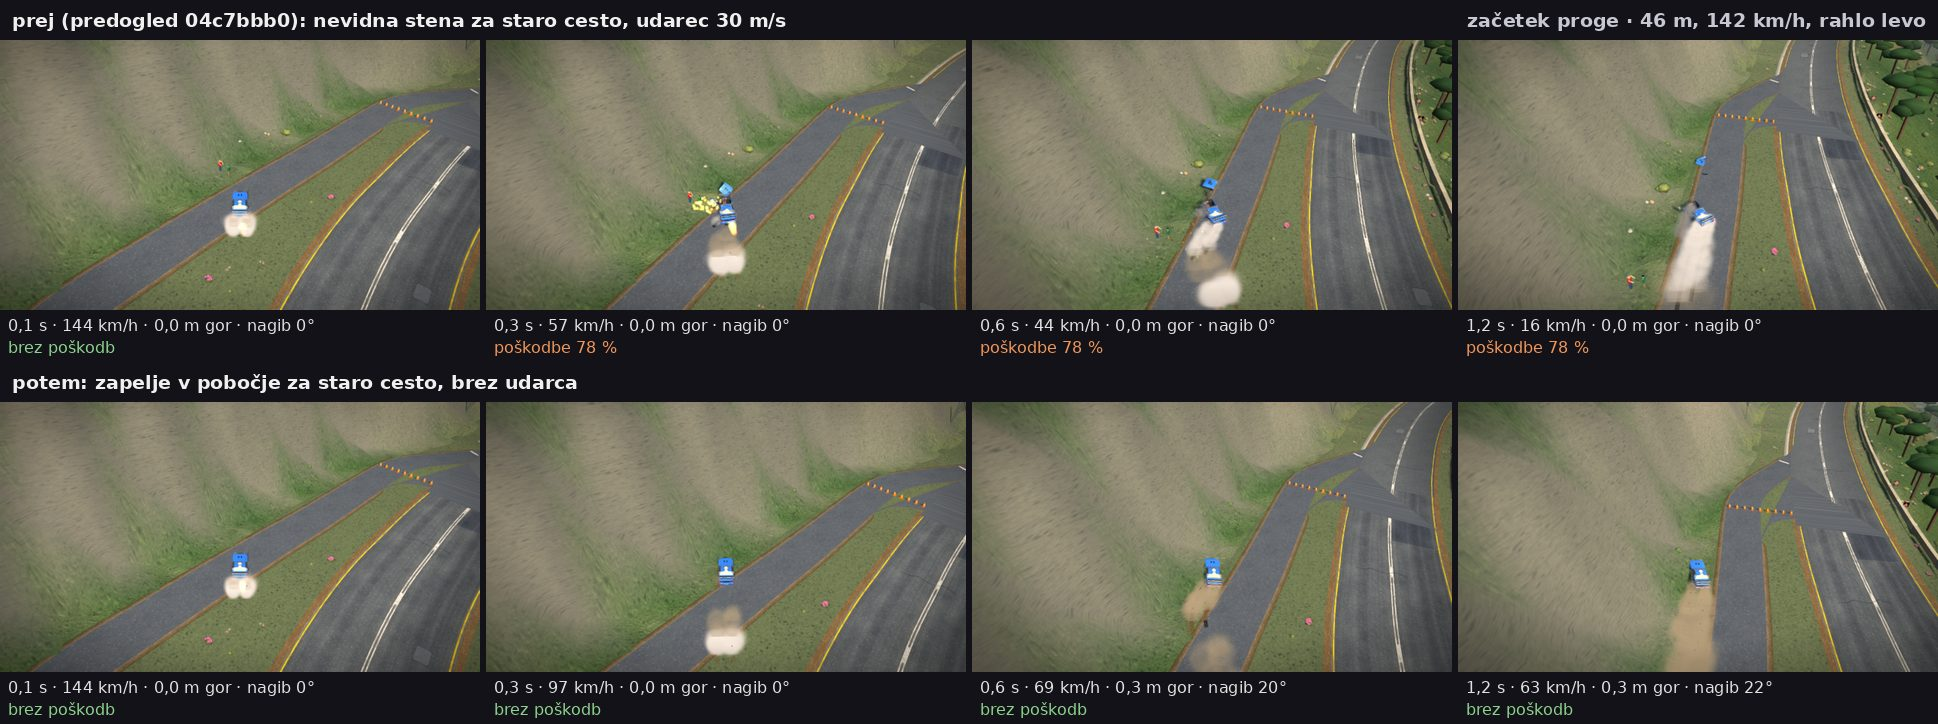
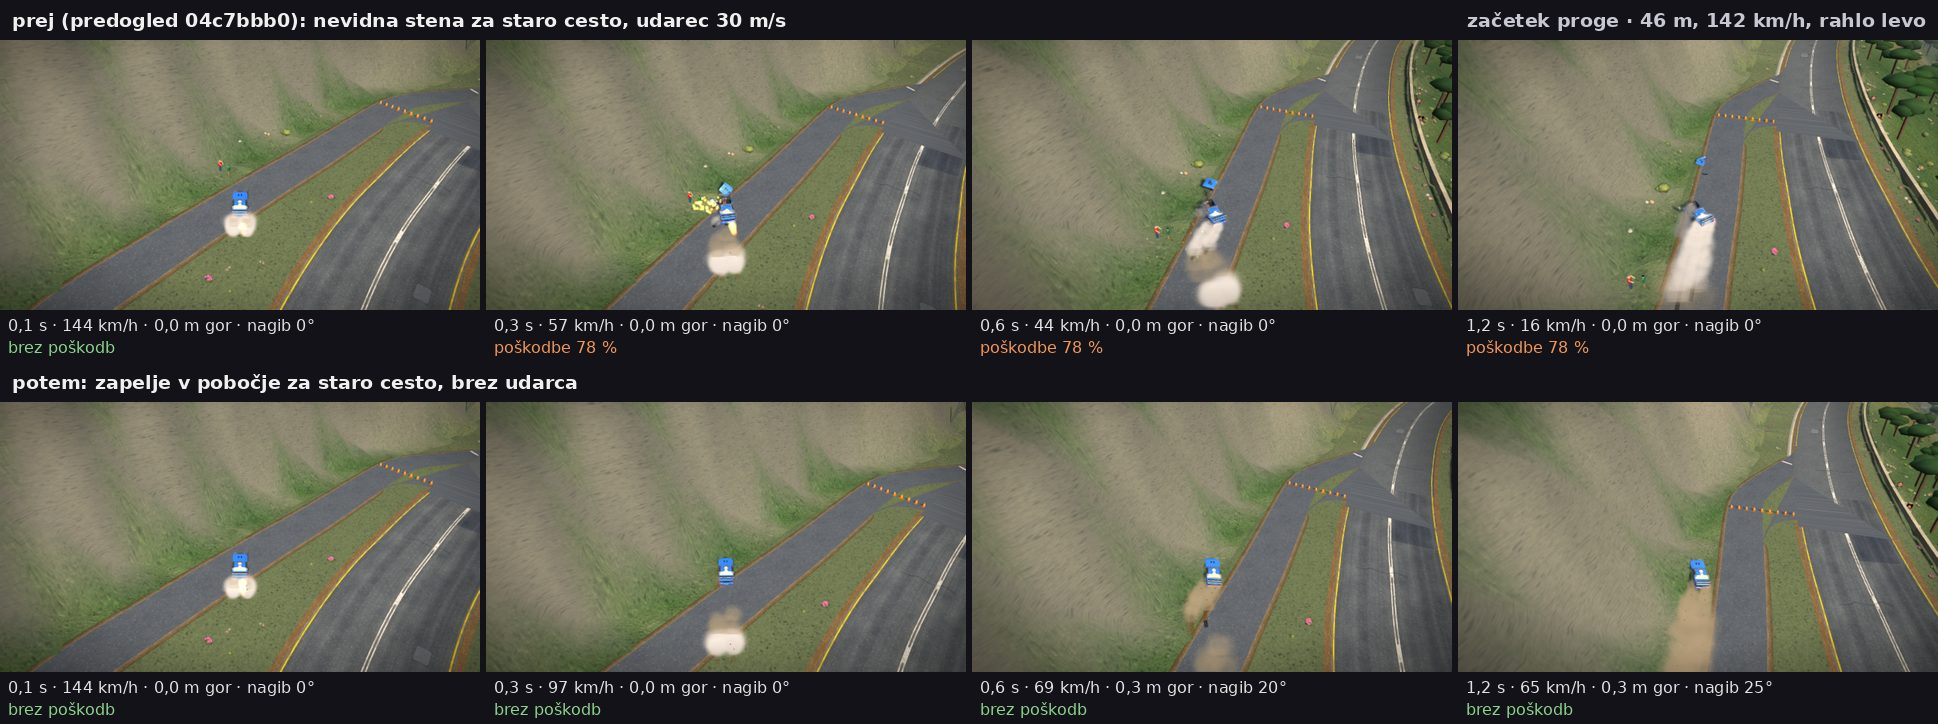
Slike: Chapman's Peak, cela proga (razgledišče 915 m, ustje odcepa 4), začetek s končno kodo
Prej/potem s kamero za avtom: razgledišče pri 915 m in ustje odcepa 4 pri 2716 m (prej prvi popravek a992a02: trd udarec, 65 in 69 % poškodb; potem mehka meja, brez udarca in poškodb); 46 m znova posneto s končno kodo; 521 m enako do številke.

Claude-Session: https://claude.ai/code/session_01Ck3D3R9m2DGywivHVdgcuS

Changed region(s): [[0.8978, 0.547, 1.0, 0.8508], [0.8978, 0.6989, 0.9288, 0.7293]]

diff --git a/README.md b/README.md
@@ -1,4 +1,4 @@
-# Slike: Chapman's Peak, Južna Afrika · hrib ob stari cesti na začetku proge
+# Slike: Chapman's Peak, Južna Afrika · hrib ob stari cesti na začetku proge in cela proga
 
 Veja samo za slike prej/potem (ni del igre, ne gre na `main`). Koda je v pull requestu #654 (veja `popravki/chapman-ograje`), opis proge v `docs/proge/chapman.md` (»Hribi ob stranskih cestah«). Prejšnje slike hribov: veja `slike/chapman-ograje`.
 
@@ -6,9 +6,20 @@ Veja samo za slike prej/potem (ni del igre, ne gre na `main`). Koda je v pull re
 
 Poročilo uporabnika (11. 11. 2026 ob 10.34, predogled beta/654, telefon ležeče): »Na zacetki proge ce zapeljem v hrib se zaletim v hrib namesti zapeljem v hrib«. Na posnetku dirke avto pri 142 km/h zapelje levo s ceste čez staro cesto, ki ob štartu teče ob glavni cesti, in z vogalom zadene nevidno mejo za njenim daljnim robom; udarec mu odtrga kolo in dirke je konec. Za staro cesto se teren dviga, a hribi brez nevidne stene so bili do zdaj samo ob glavni cesti.
 
-Na vsaki sliki zgoraj **prej** (predogled, ki ga je preizkusil uporabnik, žig `04c7bbb0`, commit `a847060`), spodaj **potem** (s popravkom, #654), ob istih časih. Kamera za avtom, telefon ležeče (640 × 360), suho, dan, poletje; avto ZMAJ, kronometer.
+Na vsaki sliki zgoraj **prej** (predogled, ki ga je preizkusil uporabnik, žig `04c7bbb0`, commit `a847060`), spodaj **potem** (s končnim popravkom, #654), ob istih časih. Kamera za avtom, telefon ležeče (640 × 360), suho, dan, poletje; avto ZMAJ, kronometer.
 
 | Slika | Kaj kaže |
 |---|---|
-| [`chapman-zacetek/chapman-zacetek-46m.jpg`](chapman-zacetek/chapman-zacetek-46m.jpg) | 46 m od štarta, točka in hitrost s posnetka (x 48,8, z 17,95, 142 km/h), rahlo levo, poln plin. Prej: pri ~0,17 s udarec 30 m/s v nevidno mejo za staro cesto, deli odletijo, 78 % poškodb, avto skoraj obstane (16 km/h pri 1,2 s). Potem: zapelje v pobočje za staro cesto (0,3 m gor, nagib ~20°), mehka meja ga zadrži, brez udarca in poškodb, vozi naprej (63 km/h pri 1,2 s). |
+| [`chapman-zacetek/chapman-zacetek-46m.jpg`](chapman-zacetek/chapman-zacetek-46m.jpg) | 46 m od štarta, točka in hitrost s posnetka (x 48,8, z 17,95, 142 km/h), rahlo levo, poln plin. Prej: pri ~0,17 s udarec 30 m/s v nevidno mejo za staro cesto, deli odletijo, 78 % poškodb, avto skoraj obstane (16 km/h pri 1,2 s). Potem: zapelje v pobočje za staro cesto (0,3 m gor, nagib 20–25°), mehka meja ga zadrži, brez udarca in poškodb, vozi naprej (65 km/h pri 1,2 s). |
 | [`chapman-zacetek/chapman-521m.jpg`](chapman-zacetek/chapman-521m.jpg) | 521 m, 72 km/h levo v hrib pod kotom 30°, brez krmiljenja, plin 30 % (mesto s prejšnjih slik, veja `slike/chapman-ograje`). Prej in potem enako, do številke: avto zapelje v pobočje ob glavni cesti (0,3–0,7 m gor, nagib do 43°), brez udarca in poškodb, po 2,4 s je spet na cesti s 83 km/h. Hribi ob glavni cesti ostanejo, kot jih je uporabnik preizkusil. |
+
+## Cela proga: razgledišče in ustje odcepa (11. 11. 2026)
+
+Prošnja prek Mateja (11. 11. ob 11.37): vsa mesta s trdim udarcem v hrib in pregled cele proge. Vožnja v hrib na levi vsakih 25 m od mreže do cilja (80, 115 in 150 km/h pod kotom 30°) je po prvem popravku našla trd udarec še na 14 mestih, povsod v vrzeli hriba: razgledišči 915 in 3387 m, ustja odcepov 3, 4, 7 in 8, cestninska postaja; ob stranskih cestah je meja hriba ob ustju rasla od 0, zato je avto obstal v enem koraku. Po končnem popravku trdo ustavijo samo vidne stvari (ograja mostu, otok cestninske postaje, zapori na koncu odcepov 3 in 7); seznam je v opisu #654 in v `docs/proge/chapman.md`.
+
+Zgoraj **prej** (prvi popravek, commit `a992a02`), spodaj **potem** (končni popravek), ob istih časih. Kamera za avtom, 960 × 540, suho, dan, poletje; avto ZMAJ, kronometer, 115 km/h levo pod kotom 30°, brez krmiljenja, plin 60 %.
+
+| Slika | Kaj kaže |
+|---|---|
+| [`chapman-zacetek/chapman-915m.jpg`](chapman-zacetek/chapman-915m.jpg) | Razgledišče pri 915 m (z 900 m). Prej: avto prečka razgledišče in med 0,7 in 1,0 s zadene nevidno mejo na njegovem robu (iskre, 65 % poškodb). Potem: hrib je čez razgledišče raven, mehka meja avto enakomerno ustavi (s 125 na 52 km/h v 0,3 s), brez udarca in poškodb; avto vozi naprej (40 km/h pri 1,8 s). Oranžni plamen za avtom je plamen iz izpuha ob prestavljanju, ne iskra. |
+| [`chapman-zacetek/chapman-2716m.jpg`](chapman-zacetek/chapman-2716m.jpg) | Ustje odcepa 4 pri 2716 m (z 2700 m). Prej: avto zapelje v odcep in med 1,0 in 1,3 s zadene trdo mejo v kotu med odcepom in glavno cesto (iskre, 69 % poškodb, obstane). Potem: hrib je čez ustje raven, hrib ob odcepu se začne s polno mejo; avto prečka ustje, na strmi daljni brežini odcepa ga mehka meja ustavi v ~3 m (s 102 na 4 km/h v 0,3 s), brez udarca, isker in poškodb. Na strmih brežinah avto ne zapelje visoko (meja 2,5–3,2 m za robom stranske ceste); na položnem pobočju (521 m) zapelje v hrib in se vrne na cesto. |
